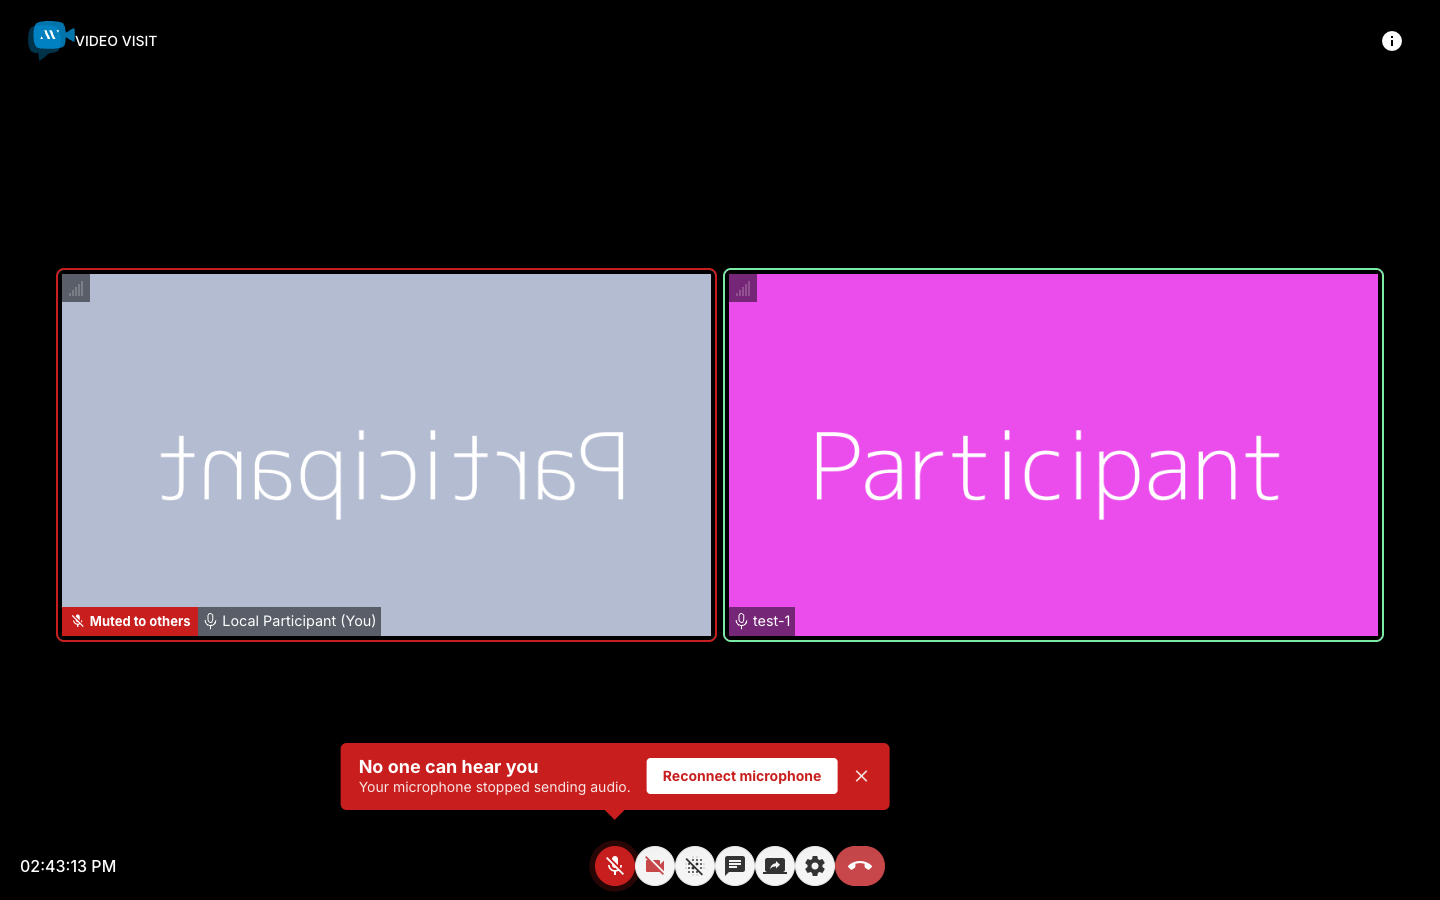
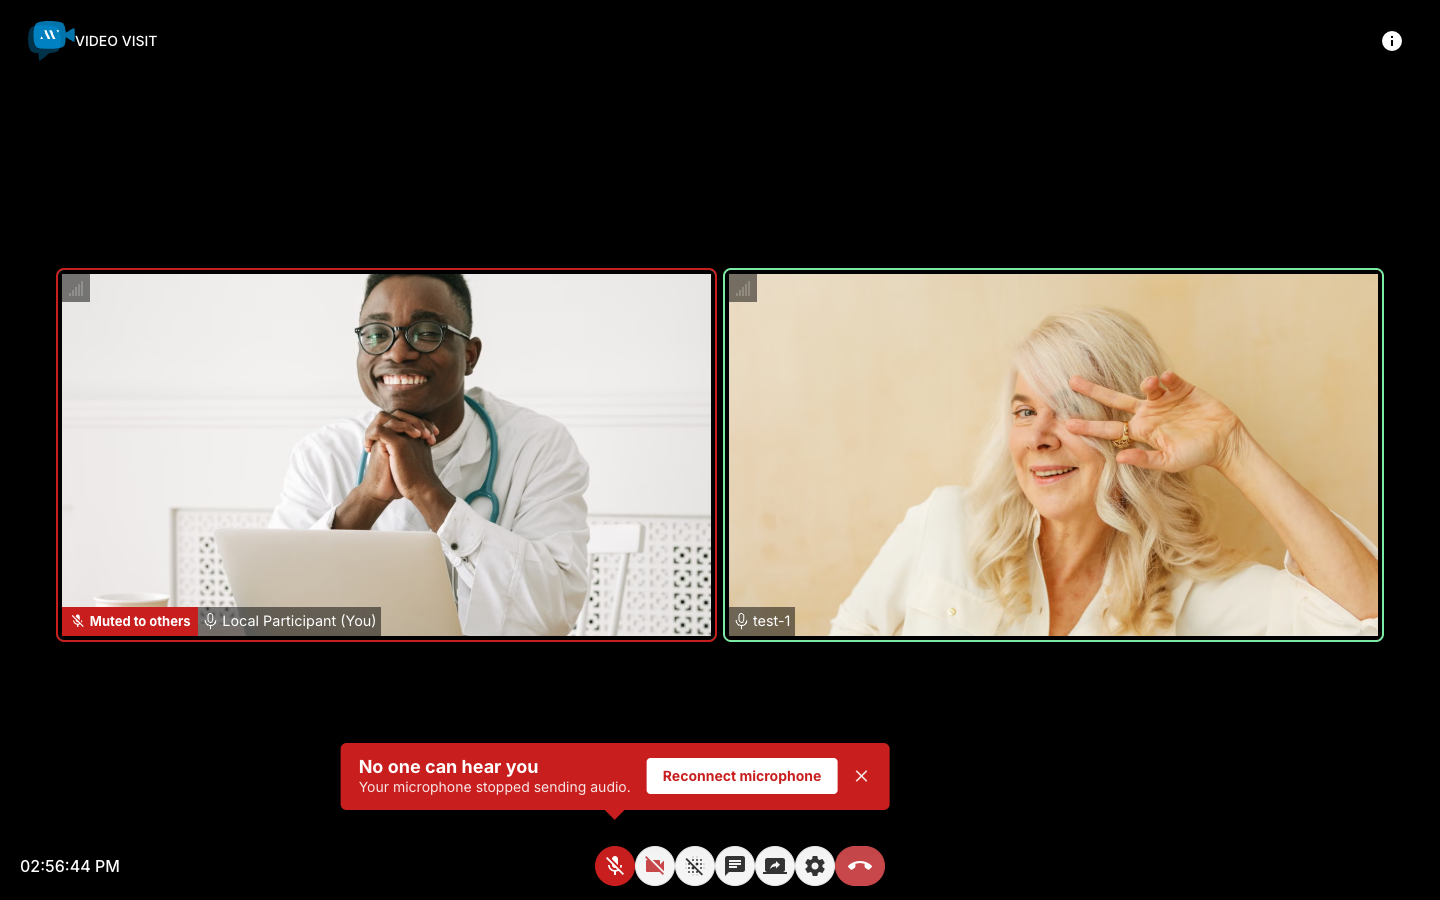
Storybook: clinician and patient photos for design-review renders
- Local tile uses a Pexels photo of a doctor facing the camera, remote
  tile a patient looking into the webcam; both requested as 16:9 crops
- Microphone Problem and Remote Audio Problem stories use the photos too
- Blur preview mask widened so the whole head stays sharp
- README credits the photographers and links the Pexels license

diff --git a/src/stories/mocks/twilio-video.js b/src/stories/mocks/twilio-video.js
@@ -44,11 +44,16 @@ const stalled = side =>
     simulateStalledAudio === 'both' ||
     simulateStalledAudio === side
 
-// Storybook control: use photos of people (Unsplash, via picsum.photos) instead of
-// coloured placeholders, for design reviews.
+// Storybook control: use photos of people instead of coloured placeholders, for
+// design reviews. Both are Pexels-licensed (free to use, no attribution required):
+//   local  = "Photo of a Doctor Smiling" by Thirdman (pexels.com/photo/4989179)
+//   remote = "Smiling Elderly Woman Doing a Peace Sign while Looking at Camera" by Kampus Production (pexels.com/photo/5473381)
+// Pexels serves through imgix, so we ask for a 16:9 crop centred on the face.
 let personPosters = false
-export const LOCAL_PERSON_PHOTO = 'https://picsum.photos/id/64/1280/720'
-export const REMOTE_PERSON_PHOTO = 'https://picsum.photos/id/1027/1280/720'
+const pexels = (id, extra = '') =>
+    `https://images.pexels.com/photos/${id}/pexels-photo-${id}.jpeg?auto=compress&cs=tinysrgb&w=1280&h=720&fit=crop${extra}`
+export const LOCAL_PERSON_PHOTO = pexels(4989179)
+export const REMOTE_PERSON_PHOTO = pexels(5473381, '&crop=top')
 
 const getRandomColor = () => {
     return Math.floor(Math.random() * 16777215).toString(16)

diff --git a/src/stories/InCall.stories.jsx b/src/stories/InCall.stories.jsx
@@ -66,8 +66,8 @@ const BlurPreviewStyles = () => (
             position: absolute;
             inset: 0;
             background: url(${LOCAL_PERSON_PHOTO}) center / cover no-repeat;
-            -webkit-mask-image: radial-gradient(ellipse 27% 54% at 50% 54%, #000 66%, transparent 100%);
-            mask-image: radial-gradient(ellipse 27% 54% at 50% 54%, #000 66%, transparent 100%);
+            -webkit-mask-image: radial-gradient(ellipse 30% 64% at 50% 52%, #000 68%, transparent 100%);
+            mask-image: radial-gradient(ellipse 30% 64% at 50% 52%, #000 68%, transparent 100%);
             transform: scaleX(-1);
             pointer-events: none;
         }
@@ -122,12 +122,14 @@ SpeakerView.args = {
 export const MicrophoneProblem = Template.bind({})
 MicrophoneProblem.args = {
     ...SpeakerView.args,
+    personPosters: true,
     simulateStalledAudio: 'local',
 }
 
 export const RemoteAudioProblem = Template.bind({})
 RemoteAudioProblem.args = {
     ...SpeakerView.args,
+    personPosters: true,
     simulateStalledAudio: 'remote',
 }
 

diff --git a/README.md b/README.md
@@ -164,6 +164,8 @@ A one-tap **Blur my background** button sits next to the camera button. It reuse
 
 The **In Call / Background Blur** story uses photos of people and approximates the blur on the local tile (the mock has no real video track for the processor to act on).
 
+Photos in these renders are from Pexels (free to use under the [Pexels license](https://www.pexels.com/license/)): clinician, ["Photo of a Doctor Smiling" by Thirdman](https://www.pexels.com/photo/photo-of-a-doctor-smiling-4989179/); patient, ["Smiling Elderly Woman Doing a Peace Sign while Looking at Camera" by Kampus Production](https://www.pexels.com/photo/smiling-elderly-woman-doing-a-peace-sign-while-looking-at-camera-5473381/). They are loaded from Pexels at story time and are not checked into the repo.
+
 ## Browser Support
 
 See browser support table for [twilio-video.js SDK](https://github.com/twilio/twilio-video.js/tree/master/#browser-support).
